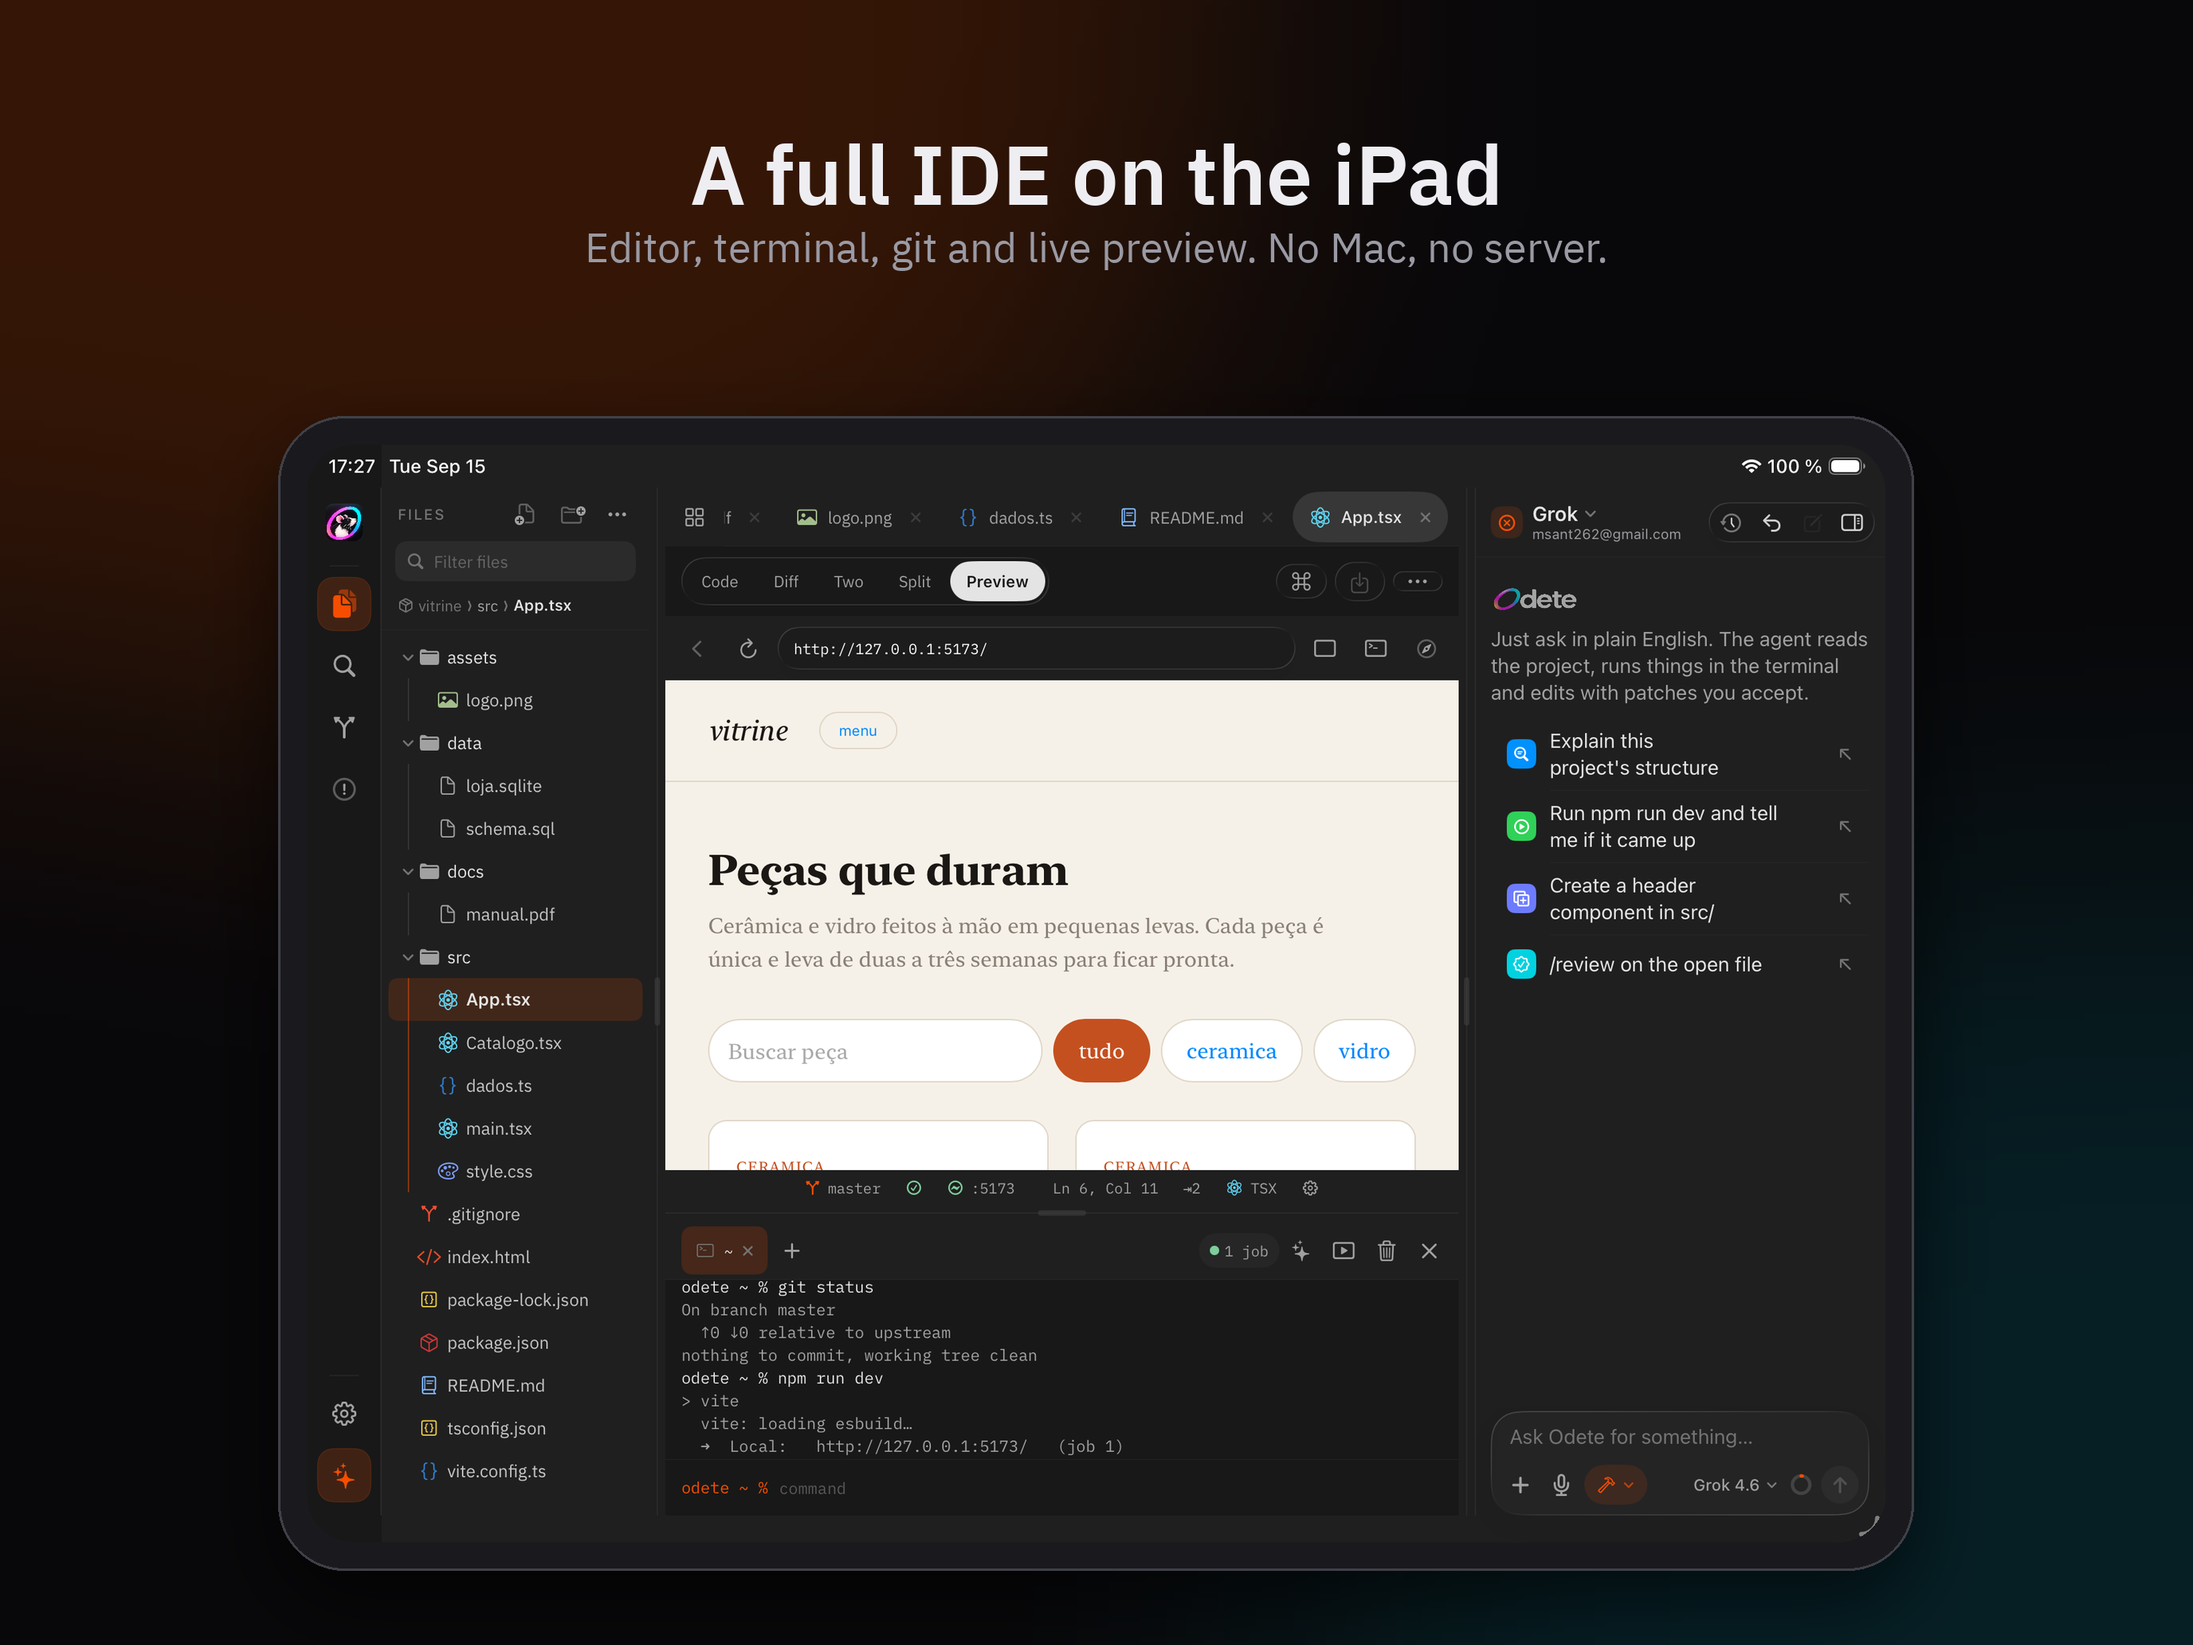
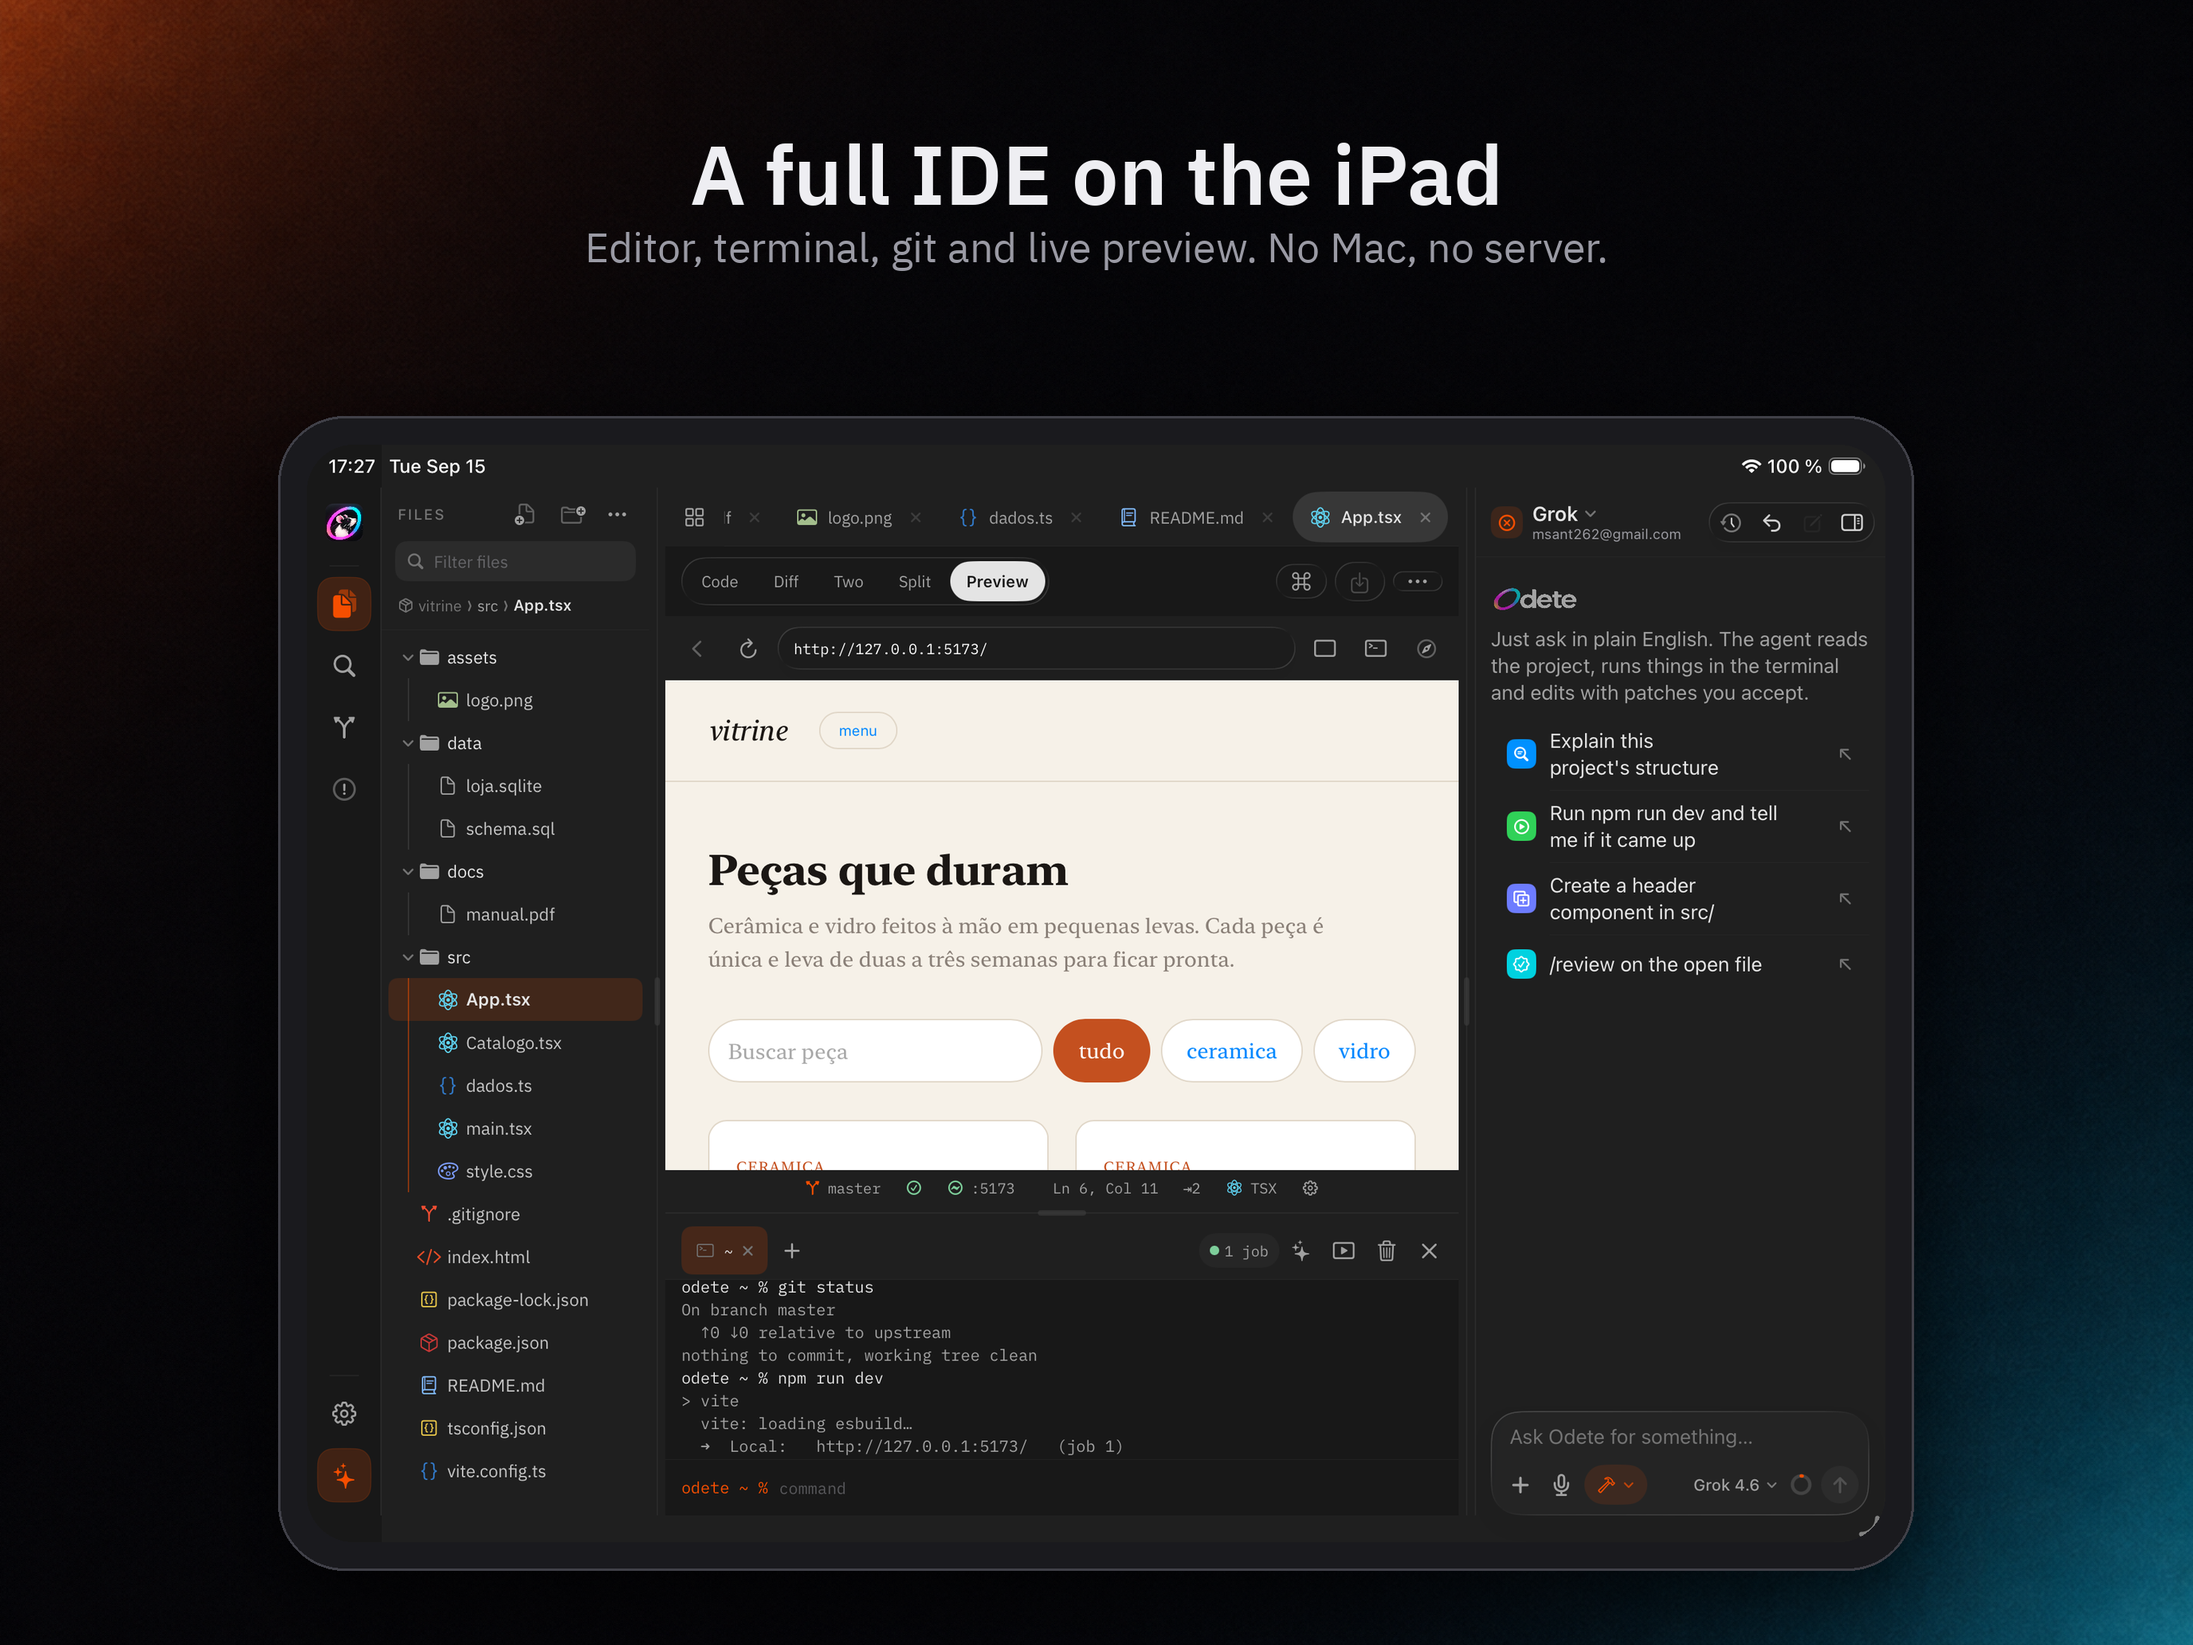
capturas da loja: a atmosfera vem do Higgsfield, a tela continua sendo a tela
A placa de fundo é gerada — preto profundo, brasa no canto de cima à
esquerda, ciano no de baixo à direita, centro vazio de propósito. Dá a
profundidade que o degradê desenhado à mão não dava.

A tela não é gerada, e não vai ser. A Apple recusa captura que não mostra
o app em uso (2.3.3), e uma interface inventada por modelo não é a Odete —
é um app que não existe.

Também não uso o aparelho gerado, embora ele tenha ficado bonito: a tela
que o modelo desenha tem proporção ~16:10 e o print do iPad é 1,44:1, então
o print encaixado lá dentro distorce ou ganha tarja. E a placa vem em
1168 px: esticada para 2752 o fio do bezel se perde. A moldura continua
geométrica, para o print cair exato e nítido.

`fundo.png` fica versionado: sem ele o script cai no degradê de antes, e
ninguém precisa de conta no Higgsfield para refazer as capturas.

Changed region(s): [[0.0312, 0.0, 0.5625, 0.4031], [0.8438, 0.7752, 1.0, 1.0], [0.0, 0.0, 0.0938, 0.155]]

diff --git a/scripts/capturas-loja.py b/scripts/capturas-loja.py
@@ -31,8 +31,17 @@ def fonte(nome: str, tam: int) -> ImageFont.FreeTypeFont:
     return ImageFont.truetype(str(FONTES / nome), tam)
 
 
+# Placa de fundo gerada no Higgsfield: preto profundo, brasa em cima à esquerda,
+# ciano embaixo à direita, centro vazio. A tela nunca é gerada — ela é o print de
+# verdade, porque a Apple recusa captura que não mostra o app (2.3.3), e porque uma
+# interface inventada não é a Odete.
+PLACA = RAIZ / 'docs/store/fundo.png'
+
+
 def fundo() -> Image.Image:
-    """Preto da marca com dois halos, um brasa e um ciano, bem abertos."""
+    if PLACA.exists():
+        return Image.open(PLACA).convert('RGB')
+    # Sem a placa, o degradê desenhado à mão — mesma paleta, menos atmosfera.
     im = Image.new('RGB', (LARG, ALT), FUNDO)
     halo = Image.new('RGB', (LARG // 8, ALT // 8), FUNDO)
     d = ImageDraw.Draw(halo)
